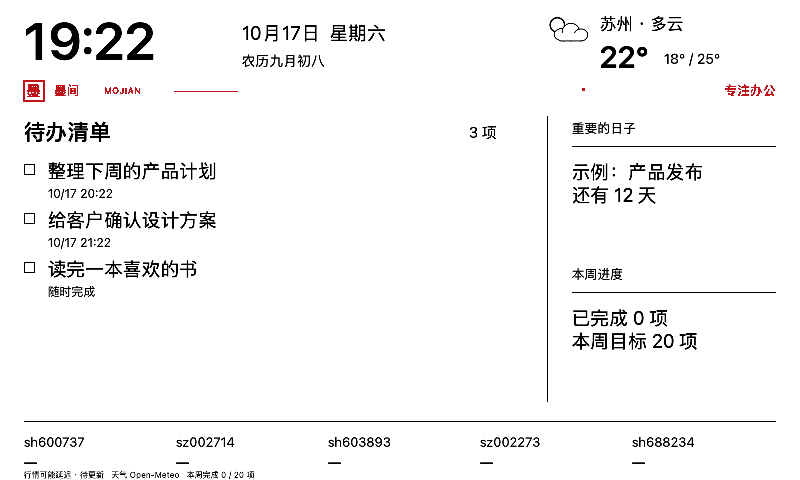
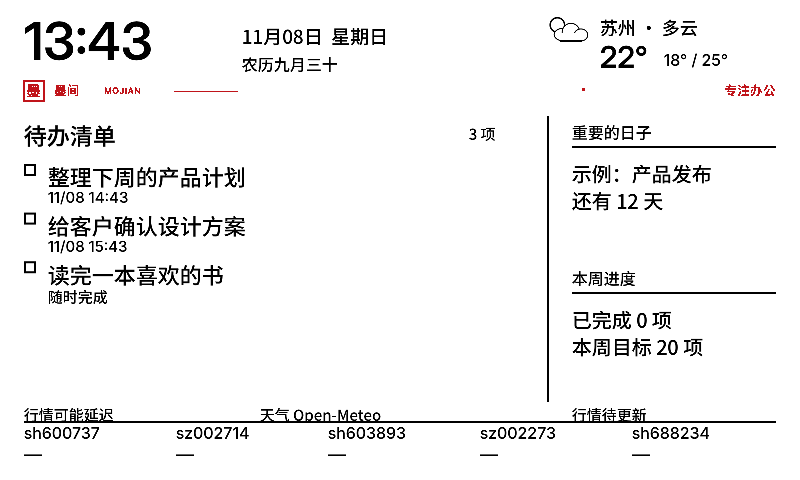
feat(ui): improve e-ink footer and calendar readability
Phase 1 e-ink readability pass:
- 15px stock footer labels and shorter copy on Mac/Android
- Mac calendar duplicate month replaced by a section label
- Mac calendar day 18->20px and marker 13->14px
- keep the 16/18/16 stock row contract and Android six-row spacing
- regenerate fictional previews; Mac tests and Android build pass

Not written to the device; applying the new layout needs one explicit
full refresh.

diff --git a/macos/Sources/ScreenRenderer.swift b/macos/Sources/ScreenRenderer.swift
@@ -114,9 +114,9 @@ private struct Painter {
         if let stamp=c.quotes.map({$0.asOf}).min(),stamp.count==14 {
             time=String(stamp.dropFirst(4).prefix(2))+"/"+String(stamp.dropFirst(6).prefix(2))+" "+String(stamp.dropFirst(8).prefix(2))+":"+String(stamp.dropFirst(10).prefix(2))
         }
-        text("自选行情 · 可能延迟",24,404,14,210,18)
-        text("天气 Open-Meteo",260,404,14,220,18)
-        text(time,572,404,14,204,18)
+        text("行情可能延迟",24,404,15,210,18)
+        text("天气 Open-Meteo",260,404,15,220,18)
+        text(time,572,404,15,204,18)
         rule(24,422,752)
         for i in 0..<5 {
             let x:CGFloat=24+CGFloat(i)*152
@@ -235,13 +235,13 @@ private struct Painter {
         weatherLine(24,405,280)
         rule(316,118,344,true)
         let illustrated=c.settings.info.artwork == true
-        if illustrated{landscape(346,118,430,115);text(["冬山藏雪","春山初醒","夏山听雨","秋山有信"][(WorkSchedule.calendar.component(.month,from:c.now)%12)/3]+" · 内置插画",346,240,16,430,24)}else{text(dateText(c.now,"yyyy / MM"),346,116,24,430,40,true)}
+        if illustrated{landscape(346,118,430,115);text(["冬山藏雪","春山初醒","夏山听雨","秋山有信"][(WorkSchedule.calendar.component(.month,from:c.now)%12)/3]+" · 内置插画",346,240,16,430,24)}else{text("月历",346,116,16,430,40,true)}
         var cal=Calendar(identifier:.gregorian);cal.timeZone=TimeZone(identifier:"Asia/Shanghai")!;let components=cal.dateComponents([.year,.month],from:c.now);let first=cal.date(from:components)!;let offset=(cal.component(.weekday,from:first)+5)%7;let days=cal.range(of:.day,in:.month,for:first)!
         for (i,day) in ["一","二","三","四","五","六","日"].enumerated(){text(day,346+CGFloat(i)*62,illustrated ? 264:163,16,58)}
         for day in days {let position=offset+day-1;let x=346+CGFloat(position%7)*62;let y=(illustrated ? 290:202)+CGFloat(position/7)*(illustrated ? 22:35)
             if day==cal.component(.day,from:c.now){outline(x-6,y-2,43,illustrated ? 22:31)}
-            text("\(day)",x,y,18,50,23,day==cal.component(.day,from:c.now))
-            if let date=cal.date(byAdding:.day,value:day-1,to:first),let marker=CalendarData.marker(date){text(marker,x+30,y+2,13,20,20)}
+            text("\(day)",x,y,20,50,23,day==cal.component(.day,from:c.now))
+            if let date=cal.date(byAdding:.day,value:day-1,to:first),let marker=CalendarData.marker(date){text(marker,x+30,y+2,14,20,20)}
         }
         rule(346,425,430);text(InformationLogic.nearest(c.settings.info.dates,at:c.now).map{InformationLogic.countdown($0,at:c.now).replacingOccurrences(of:"\n",with:" · ")} ?? CalendarData.nextTerm(c.now) ?? c.settings.note,346,441,17,430,34)
     }

diff --git a/android/app/src/main/java/com/desktodo/app/DeskRenderer.java b/android/app/src/main/java/com/desktodo/app/DeskRenderer.java
@@ -34,7 +34,7 @@ final class DeskRenderer {
  void clock(){clear(24,0,208,80);text(DateTimeFormatter.ofPattern("HH:mm").withZone(ZoneId.of("Asia/Shanghai")).format(now),24,10,52,200,true);}
  void weather(float x,float y,float width)throws Exception{if(weather==null)return;clear(x,y,width,66);JSONObject cur=weather.getJSONObject("current");text(weather.optString("city",cfg.optString("city"))+" · "+DeskApi.weatherText(cur.optInt("weather_code")),x,y,18,width);text(Math.round(cur.getDouble("temperature_2m"))+"°",x,y+25,30,width,true);}
  void stockArrow(double percent,float x,float y){p.setColor(Color.BLACK);p.setStyle(Paint.Style.FILL);if(percent==0){c.drawRect(x,y+4,x+10,y+6,p);return;}Path arrow=new Path();arrow.moveTo(x,y+(percent>0?10:0));arrow.lineTo(x+5,y+(percent>0?0:10));arrow.lineTo(x+10,y+(percent>0?10:0));arrow.close();c.drawPath(arrow,p);}
- void stocks()throws Exception{if(quotes.length()==0&&!cfg.optBoolean("stockConfigured"))return;clear(24,404,752,76);text("自选行情 · 可能延迟",24,404,14,210);text("天气 Open-Meteo",260,404,14,220);text("手机同步",650,404,14,126);rule(24,422,752,false);for(int i=0;i<5;i++){int x=24+i*152;if(i<quotes.length()){JSONObject q=quotes.getJSONObject(i);double percent=q.getDouble("percent");text(q.getString("name"),x,423,16,145);text(String.format(Locale.US,"%.2f",q.getDouble("price")),x,441,18,145,true);stockArrow(percent,x,465);text(percent==0?"0.00%":String.format(Locale.US,"%+.2f%%",percent),x+16,460,16,129,true);}else{text("未配置",x,423,16,145);text("—",x,444,18,145);}}}
+ void stocks()throws Exception{if(quotes.length()==0&&!cfg.optBoolean("stockConfigured"))return;clear(24,404,752,76);text("行情可能延迟",24,404,15,210);text("天气 Open-Meteo",260,404,15,220);text("手机同步",650,404,15,126);rule(24,422,752,false);for(int i=0;i<5;i++){int x=24+i*152;if(i<quotes.length()){JSONObject q=quotes.getJSONObject(i);double percent=q.getDouble("percent");text(q.getString("name"),x,423,16,145);text(String.format(Locale.US,"%.2f",q.getDouble("price")),x,441,18,145,true);stockArrow(percent,x,465);text(percent==0?"0.00%":String.format(Locale.US,"%+.2f%%",percent),x+16,460,16,129,true);}else{text("未配置",x,423,16,145);text("—",x,444,18,145);}}}
  void infoPatch(String id)throws Exception{String k=DeskModel.kind(id);if(k.equals("calendar")){if(id.endsWith(".phone"))weather(548,14,228);else weather(24,405,280);return;}clock();weather(548,14,228);if(!k.equals("custom"))stocks();}
  void lines(String body,float x,float y,float size,float width,int limit){
   if(width<1||limit<1)return;

diff --git a/README.md b/README.md
@@ -28,6 +28,8 @@ Mac 与 Android 均可独立通过局域网直连 ESP32，不需要同时运行 
 
 ## 本轮更新
 
+- **屏幕可读性（Phase 1）**：行情辅助字 15px、文案更短；Mac 万年历右侧重复月份改为“月历”，日期 20px、`休` 14px。Mac/Android 已同步构建，应用布局一次后生效。
+
 - **全刷温度对照**：新增默认关闭的 `esp32-l-gx-full-temp-ab`，仅在全刷刷新前写 GxEPD2 同型号的 `0xE0/0x41` 温度块，用于隔离"两组共用全刷"这一残影因素；`0x50` 涉及红色极性，暂不单独改。详见[全刷寄存器对照](docs/DISPLAY_FULL_REFRESH_AB.md)。
 
 - **固件健壮性**：无本地快照时恢复旧 Python 轮询；本地快照损坏时状态接口返回 503，不再发布空清单；红色布局提交（含全刷）必须声明外部布局与 `mojian-red-v2`，避免固定红色被静默抹掉；同时修正配网互斥量空检查、时钟分配退避、快照读取边界、校时顺序与非 flexible 红带避让。见[版本记录](CHANGELOG.md)。

diff --git a/docs/UI_OPTIMIZATION_2026-11-08.md b/docs/UI_OPTIMIZATION_2026-11-08.md
@@ -134,3 +134,12 @@ Phase 1 不触碰红色静态资源、不改布局 ID、不改刷新波形；应
 ## 建议
 
 先做 Phase 1 的行情区 + Mac 月份去重 + 日期 20px。这三项改动小、可逆、视觉收益明确，且不需要动红色静态资源。Phase 2 的网格/字号令牌需要一次全刷和两端同步，建议单独一轮做。
+
+
+## 实施记录（2026-11-08）
+
+- Phase 1 已实施：行情辅助字 15px、文案“行情可能延迟”（Mac/Android）；Mac 万年历右侧改为“月历”、日期 20px、`休` 14px。
+- 行情三行仍为 16/18/16px，遵守项目可读性约定；没有把价格改成 19px。
+- Android 六行日历仍为 18px/22px 行距，避免六周内容压到 423px 脚注；留到 Phase 2 重排。
+- Mac 已重建并跑完 `sh tools/test.sh`；`docs/images/*.png` 已用虚构数据重新生成；Android `assembleDebug` 通过。
+- 未写屏。应用新排版需要显式应用一次布局（全刷）。

diff --git a/CHANGELOG.md b/CHANGELOG.md
@@ -2,6 +2,12 @@
 
 版本按各客户端独立编号。当前为开发验证阶段。
 
+## UI Phase 1（2026-11-08）
+
+- 行情区辅助字 14→15px、文案改为“行情可能延迟”；保留 16/18/16px 行情三行与五列。Mac/Android 同步。
+- Mac 万年历右侧重复月份改为“月历”16px；日期 18→20px、`休` 13→14px。Android 六行日历暂留 18px，待 Phase 2 网格重排。
+- 重新生成虚构预览；Mac 构建与隔离测试通过，Android assembleDebug 通过。未写屏；应用一次布局生效。
+
 ## 固件 0x50 极性实验部署（2026-11-08）
 
 - 用户授权烧录 `esp32-l-gx-full-cdi-ab`，应用分区 hash verified；恢复全刷事务 `6789cd09-00000001` completed，等待 29.65 秒，布局/清单/红带保留，无故障/超时。
